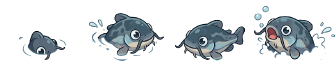
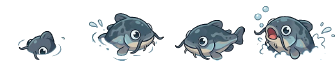
Hirsch als seltener Skin des Rehs, Wels taucht richtig herum auf, Weltkarte ohne Vorauswahl auf Touch
- Hirsch ist keine eigene Tierart mehr, sondern ein seltenes Aussehen des Rehs (Skin): Meldung beim Fangen,
  zählt im Hirschgehege als Reh; alte Spielstände werden beim Laden umgebaut
- Wels: Bild beim Auftauchen gespiegelt
- Weltkarte: auf Tablet und Handy ist kein Gebiet mehr vorausgewählt

Changed region(s): [[0.0298, 0.4688, 0.2083, 0.9375]]

diff --git a/src/scenes/GardenScene.js b/src/scenes/GardenScene.js
@@ -88,7 +88,7 @@ import KoiFoodTool from '../tools/KoiFoodTool.js';
 import ParkFoodTool from '../tools/ParkFoodTool.js';
 import { VisitorCrowd } from '../visitors/Visitor.js';
 import { AWAY_ICE_PER_VISITOR_MINUTE, AWAY_HEARTS_PER_VISITOR_MINUTE, BABY_APPEAL, BABY_BONUS, FULL_BONUS, appeal, maxVisitors, parkScore, splitHearts, penCount, isFull, releaseHearts } from '../world/visitors.js';
-import { EVENTS, RARE_EVENT_CHANCE, babyFamily, babyPlan, eventState, formatTime, isActive, startEvent } from '../world/events.js';
+import { EVENTS, babyFamily, babyPlan, eventState, formatTime, isActive, startEvent } from '../world/events.js';
 import { isEventsOpen, openEvents } from '../ui/eventsPanel.js';
 import Crocodile from '../animals/Crocodile.js';
 import { blockedAt } from '../world/collision.js';
@@ -110,7 +110,7 @@ import { openToolChest, isToolChestOpen } from '../ui/toolChest.js';
 // Ganzzahliger Zoom hält die Pixel-Art scharf: etwa 360 Welt-Pixel Bildhöhe
 const VIEW_H = 360;
 // Reihenfolge der Tierarten in der Anzeige
-const ALL_SPECIES = ['wolf', 'peacock', 'orangutan', 'tiger', 'sheep', 'cat', 'deer', 'stag', 'fish', 'koi', 'reeffish', 'seahorse', 'octopus', 'turtle', 'ray', 'jellyfish', 'frog', 'mole', 'heron', 'flamingo', 'squirrel', 'fox', 'antelope', 'zebra', 'meerkat', 'lion', 'crocodile', 'giraffe', 'panda', 'macaque'];
+const ALL_SPECIES = ['wolf', 'peacock', 'orangutan', 'tiger', 'sheep', 'cat', 'deer', 'fish', 'koi', 'reeffish', 'seahorse', 'octopus', 'turtle', 'ray', 'jellyfish', 'frog', 'mole', 'heron', 'flamingo', 'squirrel', 'fox', 'antelope', 'zebra', 'meerkat', 'lion', 'crocodile', 'giraffe', 'panda', 'macaque'];
 const GATE_OPEN_DIST = 44; // so nah muss man ans Tor, damit es aufgeht
 const GATE_CLOSE_DELAY = 0.5; // Sekunden, bis es nach dem Durchgehen wieder erscheint
 const SIGN_DIST = 50; // so nah muss man an den Wegweiser, damit er etwas anzeigt
@@ -144,8 +144,7 @@ const CATCH_TIPS = {
   squirrel: tr('Nur wenn es vom Baum herunterkommt – halte etwas Abstand.', 'Only when it comes down from the tree – keep a little distance.'),
   heron: tr('Nur wenn er am Wasser gelandet ist.', 'Only when it has landed by the water.'),
   flamingo: tr('Nur beim Flamingo-Flug – und nur, wenn er gelandet ist.', 'Only during the Flamingo Flight – and only when it has landed.'),
-  deer: tr('Scheu: aus der Ferne mit dem Lasso.', 'Shy: use the lasso from a distance.'),
-  stag: tr('Selten und scheu: aus der Ferne mit dem Lasso.', 'Rare and shy: use the lasso from a distance.'),
+  deer: tr('Scheu: aus der Ferne mit dem Lasso. Mit etwas Glück ist es ein seltener Hirsch.', 'Shy: use the lasso from a distance. With a bit of luck it is a rare stag.'),
   fox: tr('Nur mit der Falle.', 'Only with the trap.'),
   antelope: tr('Lebt in Herden – fängst du eine, rennen die anderen weg.', 'Lives in herds – catch one and the others run away.'),
   zebra: tr('Beim Trinken am Wasserloch flieht es nicht, dann kannst du es auch berühren.', 'While drinking at the water hole it doesn’t run away – then you can even touch it.'),
@@ -202,7 +201,7 @@ const ANIMAL_INFO = {
   ray: tr(['Rochen', 'Hat keine Füße – er „fliegt“ mit seinen großen, flachen Brustflossen durchs Wasser.'], ['Ray', 'No feet – it “flies” through the water with its big, flat fins.']),
   turtle: tr(['Meeresschildkröte', 'Hat Flossen statt Füße – damit „fliegt“ sie durchs Wasser. Zum Luftholen schwimmt sie an die Oberfläche.'], ['Sea turtle', 'Flippers instead of feet – it “flies” through the water with them. To breathe, it swims up to the surface.']),
   deer: tr(['Reh', 'Paarhufer: zwei schmale Hufhälften, vorne spitz.'], ['Deer', 'Even-toed hoofs: two narrow hoof halves, pointed at the front.']),
-  stag: tr(['Hirsch', 'Wie beim Reh, nur viel größer – dahinter sieht man oft zwei kleine Afterklauen.'], ['Stag', 'Like the deer, only much bigger – you often see two small dewclaws behind them.']),
+
   fox: tr(['Fuchs', 'Vier Zehen mit Krallen und ein kleiner Ballen – fast wie beim Hund, nur schmaler.'], ['Fox', 'Four toes with claws and a small pad – almost like a dog, only narrower.']),
   squirrel: tr(['Eichhörnchen', 'Lange, dünne Finger mit spitzen Krallen – perfekt zum Klettern.'], ['Squirrel', 'Long, thin fingers with sharp claws – perfect for climbing.']),
   antelope: tr(['Antilope', 'Paarhufer: zwei schmale, spitze Hufhälften – gut zum schnellen Rennen.'], ['Antelope', 'Even-toed hoofs: two narrow, pointed hoof halves – good for running fast.']),
@@ -273,7 +272,7 @@ const PEN_CALL_EVERY = [4, 8]; // Sekunden zwischen zwei Rufen
 const PEN_CALL_DIST = 190; // so nah muss man am Gehege sein (in Kachel-Proportionen, etwa 6 Kacheln)
 const PEN_CALL_VOLUME = 0.16; // ganz nah; weiter weg leiser
 // welcher Ruf zu welcher Tierart gehört (sonst animal_<Art>, falls es den gibt)
-const PEN_CALLS = { lion: 'lion_roar', stag: null, deer: null };
+const PEN_CALLS = { lion: 'lion_roar', deer: null };
 // Tierarten ohne eigenen Ton nehmen diesen (beim Fangen und als Ruf aus dem Gehege)
 const CALL_FALLBACK = { tiger: 'lion_roar' };
 const WHOOSH_VOLUME = 0.35; // Lautstärke des Schwungs beim Einsetzen eines Werkzeugs
@@ -331,7 +330,7 @@ const TOOLS = {
   lasso: {
     create: (scene, player) => new Lasso(scene, player),
     name: 'Lasso',
-    catches: ['deer', 'stag', 'antelope', 'zebra', 'crocodile', 'sheep', 'heron', 'tiger'],
+    catches: ['deer', 'antelope', 'zebra', 'crocodile', 'sheep', 'heron', 'tiger'],
     hint: (list) => tr(`Damit fängst du ${animalIcons(list)} aus der Ferne`, `Catches ${animalIcons(list)} from a distance`),
   },
   trap: {
@@ -1193,10 +1192,7 @@ export default class GardenScene extends Phaser.Scene {
   pickSpecies() {
     const entries = Object.entries(LEVEL.spawn.weights);
     let r = Math.random() * entries.reduce((s, [, w]) => s + w, 0);
-    const species = (entries.find(([, w]) => (r -= w) <= 0) ?? entries[0])[0];
-    // Event "Seltene Tiere": jedes zweite Reh ist ein Hirsch
-    if ((species === 'deer' || species === 'stag') && LEVEL.spawn.weights.stag && isActive('rare')) return Math.random() < RARE_EVENT_CHANCE ? 'stag' : 'deer';
-    return species;
+    return (entries.find(([, w]) => (r -= w) <= 0) ?? entries[0])[0];
   }
 
   // Ein zufälliges wildes Tier erzeugen. Fische, Eichhörnchen und Maulwürfe suchen sich ihre Plätze selbst

diff --git a/src/world/levels.js b/src/world/levels.js
@@ -164,7 +164,7 @@ export const LEVELS = {
       { tx: 22, ty: 0, to: 'park', arrive: { tx: 37, ty: 42 }, label: tr('Tierpark', 'Zoo') },
       { tx: 39, ty: 18, to: 'meadow', arrive: { tx: 1, ty: 19 }, label: tr('Wiese', 'Meadow') },
     ],
-    spawn: { population: 12, weights: { deer: 4, squirrel: 2.5, fish: 2.5, frog: 1.6, fox: 1, stag: 0.4 } },
+    spawn: { population: 12, weights: { deer: 4.4, squirrel: 2.5, fish: 2.5, frog: 1.6, fox: 1 } }, // jedes zehnte Reh ist ein Hirsch (Skin)
     herons: { every: [50, 110], landChance: 0.5 },
   },
 
@@ -559,7 +559,7 @@ export const LEVELS = {
       { id: 'lion', name: tr('Löwengehege', 'Lion Enclosure'), species: ['lion'], gate: 'tall', world: 'savanna', ground: ['sgrass0', 'sgrass1', 'sgrass2'], seed: { tx: 27, ty: 9 }, slots: [3, 5], upgrade: tr('Großer Löwenfelsen', 'Big lion rock'), basic: [[32, 11, ':']] },
       { id: 'meerkat', name: tr('Erdmännchenbau', 'Meerkat Burrow'), species: ['meerkat'], world: 'savanna', ground: ['sgrass0', 'sgrass1', 'sgrass2'], seed: { tx: 25, ty: 17 }, slots: [5, 8], upgrade: tr('Erdhügel', 'Dirt mounds'), basic: [[27, 18, ':'], [28, 19, '<']] },
       { id: 'savanna', name: tr('Savannengehege', 'Savanna Enclosure'), species: ['antelope', 'zebra', 'giraffe'], gate: 'tall', world: 'savanna', ground: ['sgrass0', 'sgrass1', 'sgrass2'], seed: { tx: 45, ty: 2 }, quota: { antelope: [5, 8], zebra: [5, 8], giraffe: [3, 5] }, upgrade: tr('Mehr Steppe mit Heu-Unterstand', 'More grassland with a hay shelter'), basic: [[46, 2, ']'], [46, 3, ']'], [46, 4, ']'], [46, 5, '['], [47, 5, '['], [48, 5, '['], [49, 5, '['], [50, 5, '['], [51, 5, '['], [50, 3, '.']] },
-      { id: 'deerpark', name: tr('Hirschgehege', 'Deer Park'), species: ['deer', 'stag'], world: 'forest', ground: ['fgrass0', 'fgrass1', 'fgrass2'], seed: { tx: 16, ty: 40 }, slots: [6, 9], upgrade: tr('Mehr Wald mit Futterkrippe', 'More forest with a feeding rack'), basic: [[12, 37, '|'], [12, 38, '|'], [12, 39, '|'], [12, 40, '|'], [12, 41, '|'], [12, 42, '|'], [12, 43, '|'], [12, 44, '|'], [10, 39, '.']] },
+      { id: 'deerpark', name: tr('Hirschgehege', 'Deer Park'), species: ['deer'], world: 'forest', ground: ['fgrass0', 'fgrass1', 'fgrass2'], seed: { tx: 16, ty: 40 }, slots: [6, 9], upgrade: tr('Mehr Wald mit Futterkrippe', 'More forest with a feeding rack'), basic: [[12, 37, '|'], [12, 38, '|'], [12, 39, '|'], [12, 40, '|'], [12, 41, '|'], [12, 42, '|'], [12, 43, '|'], [12, 44, '|'], [10, 39, '.']] },
       { id: 'foxden', name: tr('Fuchsbau', 'Fox Den'), species: ['fox'], world: 'forest', ground: ['fgrass0', 'fgrass1', 'fgrass2'], seed: { tx: 5, ty: 48 }, slots: [3, 5], upgrade: tr('Fuchshöhle', 'Fox cave'), basic: [[5, 50, ':']] },
       { id: 'forestpond', name: tr('Teich', 'Pond'), species: ['frog', 'fish'], gate: 'chain', signKey: 'pond', world: 'forest', ground: ['fgrass0', 'fgrass1', 'fgrass2'], seed: { tx: 14, ty: 48 }, quota: { frog: [6, 9], fish: [6, 9] }, upgrade: tr('Größerer Teich mit Schilf, Pilzen und Farn', 'Bigger pond with reeds, mushrooms and ferns'), basic: [[14, 48, ':'], [17, 53, '<'], [18, 50, '.'], [13, 52, '.'], [14, 52, '.'], [15, 49, '.'], [16, 49, '.']] },
       { id: 'wolves', name: tr('Wolfswald', 'Wolf Woods'), species: ['wolf'], gate: 'tall', world: 'forest', unlock: 'wolves', ground: ['fgrass0', 'fgrass1', 'fgrass2'], seed: { tx: 6, ty: 30 }, slots: [6, 9], upgrade: tr('Heulfelsen', 'Howling rock'), basic: [[5, 28, '.']] },

diff --git a/src/animals/Animal.js b/src/animals/Animal.js
@@ -157,25 +157,7 @@ export const SPECIES = {
     shadowW: 40,
     catchWith: ['food'],
   },
-  // Hirsch: verhält sich wie das Reh, ist aber sehr selten
-  stag: {
-    texture: 'stag',
-    eatTexture: 'stag_eat', // beim Fressen am Futter im Tierpark
-    frames: { downRight: 0, downLeft: 1, upRight: 2, upLeft: 3 },
-    originY: 108 / 112,
-    speed: 30,
-    restChance: 0.5,
-    restTime: [1.5, 4],
-    walkTime: [1, 2.5],
-    stepRate: 10,
-    hop: 1.5,
-    footW: 8,
-    shadowW: 30,
-    fleeDist: 70, // so nah darf der Spieler kommen, dann rennt es weg
-    fleeSpeed: 95, // schneller als der Spieler (80)
-    catchWith: ['lasso', 'trap'], // scheu: nur mit dem Lasso aus der Entfernung oder in der Falle
-    trapWeight: 1.2, // wie gern es in die Falle geht
-  },
+
   // Eichhörnchen sitzen meist auf ihrem Baum (siehe Squirrel.js)
   squirrel: {
     texture: 'squirrel',
@@ -536,6 +518,7 @@ const FEED_WALK_TIMEOUT = 8; // kommt ein Tier nicht ans Futter, frisst es dort,
 // Im Gehege locken sie mehr Besucher an (siehe SKIN_APPEAL in world/visitors.js).
 export const SKINS = {
   cat: { id: 'cat2', name: tr('Glöckchen-Katze', 'bell cat'), male: false, wild: 0.12, baby: 0.03 }, // Katze 2: schwarz-weiß getigert mit Glöckchen
+  deer: { id: 'stag', name: tr('Hirsch', 'stag'), male: true, wild: 0.1, baby: 0 }, // ein Rehkitz ist nie ein Hirsch
   antelope: { id: 'antelope2', name: tr('Oryx-Antilope', 'oryx antelope'), male: false, wild: 0.1, baby: 0.03 }, // gilt für die ganze Herde
   fish: { id: 'fish2', name: tr('Wels', 'catfish'), male: true, wild: 0.1, baby: 0 }, // Fische bekommen keine Babys
   tiger: { id: 'tiger2', name: tr('weißer Tiger', 'white tiger'), male: true, wild: 0.1, baby: 0.03 },
@@ -545,9 +528,6 @@ export const SKINS = {
   jellyfish: { id: 'jellyfish2', name: tr('Goldqualle', 'golden jellyfish'), male: false, wild: 0.08, baby: 0 }, // golden, mit Ranken auf dem Schirm
   ray: { id: 'ray2', name: tr('Mantarochen', 'manta ray'), male: true, wild: 0.12, baby: 0 }, // groß, dunkel, mit heller Unterseite
 };
-// seltene Tierarten, die eigentlich eine Variante einer anderen sind (der Hirsch beim Reh): bleiben wie Skins
-// beim Auszug ins Naturreservat bevorzugt im Gehege
-export const RARE_SPECIES = ['stag'];
 
 export default class Animal {
   constructor(scene, x, y, species) {
@@ -663,9 +643,9 @@ export default class Animal {
     return this.eatingLook ? this.eatTexture() : this.baseTexture();
   }
 
-  // seltene Variante (Skin, Hirsch, weißer Koi): bleibt beim Auszug ins Naturreservat bevorzugt im Gehege
+  // seltene Variante (Skin wie der Hirsch, weißer Koi): bleibt beim Auszug ins Naturreservat bevorzugt im Gehege
   isRare() {
-    return !!this.skin || RARE_SPECIES.includes(this.species);
+    return !!this.skin;
   }
 
   // seltener Skin würfeln: from 'wild' (draußen) oder 'baby' (Tierbaby-Event, viel seltener)

diff --git a/src/ui/travelMap.js b/src/ui/travelMap.js
@@ -4,6 +4,7 @@
 import { animalIconSquare } from './icons.js';
 import { CLOSE_BUTTON, isCloseClick } from './closeButton.js';
 import { tr } from '../i18n.js';
+import { isTouch } from './touch.js';
 
 let panel = null;
 let state = null;
@@ -32,7 +33,8 @@ export function openTravelMap(places, current, onTravel, onClose) {
   panel.classList.add('show');
   openedAt = performance.now();
   const targets = places.filter((p) => p.id !== current);
-  state = { places: targets, selected: 0, onTravel, onClose };
+  // keys: die Auswahl ist zu sehen (am PC gleich, auf Tablet und Handy erst nach einem Tastendruck – dort tippt man direkt)
+  state = { places: targets, selected: 0, keys: !isTouch(), onTravel, onClose };
   highlight();
   // erst nach diesem Tastendruck reagieren, sonst fährt die Taste E gleich los
   setTimeout(() => {
@@ -42,7 +44,7 @@ export function openTravelMap(places, current, onTravel, onClose) {
 }
 
 function highlight() {
-  const id = state.places[state.selected]?.id;
+  const id = state.keys ? state.places[state.selected]?.id : null;
   for (const b of panel.querySelectorAll('.place')) b.classList.toggle('selected', b.dataset.id === id);
 }
 
@@ -69,6 +71,10 @@ function onKey(e) {
   e.preventDefault();
   e.stopPropagation(); // die Taste soll im Spiel nichts auslösen
   const k = e.key.toLowerCase();
+  if (!state.keys && k !== 'escape') {
+    state.keys = true; // erster Tastendruck auf dem Tablet: erst einmal die Auswahl zeigen
+    return highlight();
+  }
   if (k === 'w' || k === 'arrowup') move(0, -1);
   else if (k === 's' || k === 'arrowdown') move(0, 1);
   else if (k === 'a' || k === 'arrowleft') move(-1, 0);

diff --git a/src/world/events.js b/src/world/events.js
@@ -106,7 +106,7 @@ export function formatTime(ms) {
 // Tierbabys: in jedem Gehege auf je 2 größere Tiere einer Familie ein Baby. Reh und Hirsch sind eine Familie,
 // ihr Baby ist ein Rehkitz. Auch Flamingos (graue Küken), Katzen, Erdmännchen, Eichhörnchen, Frösche und Wölfe bekommen Babys,
 // im Aquarium Seepferdchen, Schildkröten, Rochen, Kraken und Quallen; Maulwürfe, Reiher, Fische und Koi nicht.
-const BABY_OF = { macaque: 'macaque', panda: 'panda', tiger: 'tiger', orangutan: 'orangutan', peacock: 'peacock', flamingo: 'flamingo', cat: 'cat', sheep: 'sheep', deer: 'deer', stag: 'deer', antelope: 'antelope', zebra: 'zebra', giraffe: 'giraffe', lion: 'lion', fox: 'fox', meerkat: 'meerkat', squirrel: 'squirrel', frog: 'frog', wolf: 'wolf',
+const BABY_OF = { macaque: 'macaque', panda: 'panda', tiger: 'tiger', orangutan: 'orangutan', peacock: 'peacock', flamingo: 'flamingo', cat: 'cat', sheep: 'sheep', deer: 'deer', antelope: 'antelope', zebra: 'zebra', giraffe: 'giraffe', lion: 'lion', fox: 'fox', meerkat: 'meerkat', squirrel: 'squirrel', frog: 'frog', wolf: 'wolf',
   // im Aquarium (Fische und Koi bekommen keine Babys)
   seahorse: 'seahorse', turtle: 'turtle', ray: 'ray', octopus: 'octopus', jellyfish: 'jellyfish' };
 

diff --git a/src/world/visitors.js b/src/world/visitors.js
@@ -19,7 +19,7 @@ export const APPEAL = {
   antelope: 3,
   zebra: 3,
   meerkat: 3.5,
-  stag: 4,
+
   giraffe: 4,
   flamingo: 4,
   panda: 5,
@@ -46,7 +46,7 @@ export const BABY_APPEAL = 3;
 export const BABY_BONUS = 2.5;
 
 // seltene Skins locken mehr Besucher an als die normale Art (Katze 2: mehr als doppelt so viel wie eine Katze, Oryx 1,5-mal)
-export const SKIN_APPEAL = { cat2: 3, antelope2: 4.5, koi3: 3, fish2: 3, frog2: 3, tiger2: 7, orangutan2: 7, peacock2: 6, jellyfish2: 7, ray2: 8 }; // koi3: weißer Koi mit rotem Punkt
+export const SKIN_APPEAL = { stag: 4, cat2: 3, antelope2: 4.5, koi3: 3, fish2: 3, frog2: 3, tiger2: 7, orangutan2: 7, peacock2: 6, jellyfish2: 7, ray2: 8 }; // koi3: weißer Koi mit rotem Punkt
 
 // (geht auch mit gespeicherten Tieren eines anderen Levels: braucht nur species, skin, variant, baby)
 export const appeal = (a) => (a.baby ? BABY_APPEAL : SKIN_APPEAL[a.skin ?? a.variant] ?? APPEAL[a.species] ?? 1);

diff --git a/tools/prepare-characters.js b/tools/prepare-characters.js
@@ -64,7 +64,7 @@ const CHARACTERS = [
   // auftauchen, nach rechts, nach links, Sprung; freigestellt mit npm run cutout
   { src: 'Sprites/Fisch.png', out: 'fish.png', frameW: 84, frameH: 64, feetY: 60, figureH: 56 },
   // Wels (seltener Skin des Fischs): gleiches Format, etwas größer als der Fisch
-  { src: 'Sprites/Fisch2.png', out: 'fish2.png', frameW: 84, frameH: 64, feetY: 60, scale: 0.39 },
+  { src: 'Sprites/Fisch2.png', out: 'fish2.png', frameW: 84, frameH: 64, feetY: 60, scale: 0.39, mirror: [0] }, // Auftauchen: Kopf in dieselbe Richtung wie beim Fisch
   // unten-rechts, unten-links, oben-links, oben-rechts; freigestellt mit npm run cutout
   { src: 'Sprites/Fisch Beutel.png', out: 'fishbag.png', frameW: 64, frameH: 76, feetY: 72, figureH: 64 },
   // unten-rechts, unten-links, oben-rechts, oben-links; freigestellt mit npm run cutout

diff --git a/src/save.js b/src/save.js
@@ -55,8 +55,24 @@ export function loadSave() {
     for (const k of ['startsAt', 'endsAt', 'readyAt']) if (ev[k] != null) ev[k] += shift;
   }
   for (const lvl of Object.values(game.levels)) for (const a of lvl.animals) if (a.since) a.since += shift;
+  migrateStag();
   save.lastSaved = s.savedAt;
   return s.level;
+}
+
+// Früher war der Hirsch eine eigene Tierart, jetzt ist er ein seltenes Aussehen (Skin) des Rehs
+function migrateStag() {
+  const fix = (a) => {
+    if (a.species !== 'stag') return;
+    a.species = 'deer';
+    a.skin = 'stag';
+  };
+  for (const lvl of Object.values(game.levels)) lvl.animals.forEach(fix);
+  game.followers.forEach(fix);
+  if (game.heartsBy.stag) {
+    game.heartsBy.deer = (game.heartsBy.deer ?? 0) + game.heartsBy.stag;
+    delete game.heartsBy.stag;
+  }
 }
 
 export function saveNow() {

diff --git a/src/world/map.js b/src/world/map.js
@@ -378,7 +378,7 @@ export function isUpgraded(e) {
 }
 // Tierarten, die sich ein Kontingent teilen (der Hirsch ist die seltene Variante des Rehs; Kuh, Schwein und Ziege
 // sind ohnehin Schafe)
-const QUOTA_OF = { stag: 'deer' };
+const QUOTA_OF = {}; // Tierart → Art, deren Plätze sie mitbenutzt (bisher keine)
 export const quotaKey = (species) => QUOTA_OF[species] ?? species;
 // Kontingente eines Geheges: in gemeinsamen Gehegen je Tierart eigene Plätze (quota: { Art: [vorher, ausgebaut] }),
 // sonst alle zusammen (slots, key null). i: 0 vor, 1 nach dem Ausbau (Standard: wie es gerade ist)
